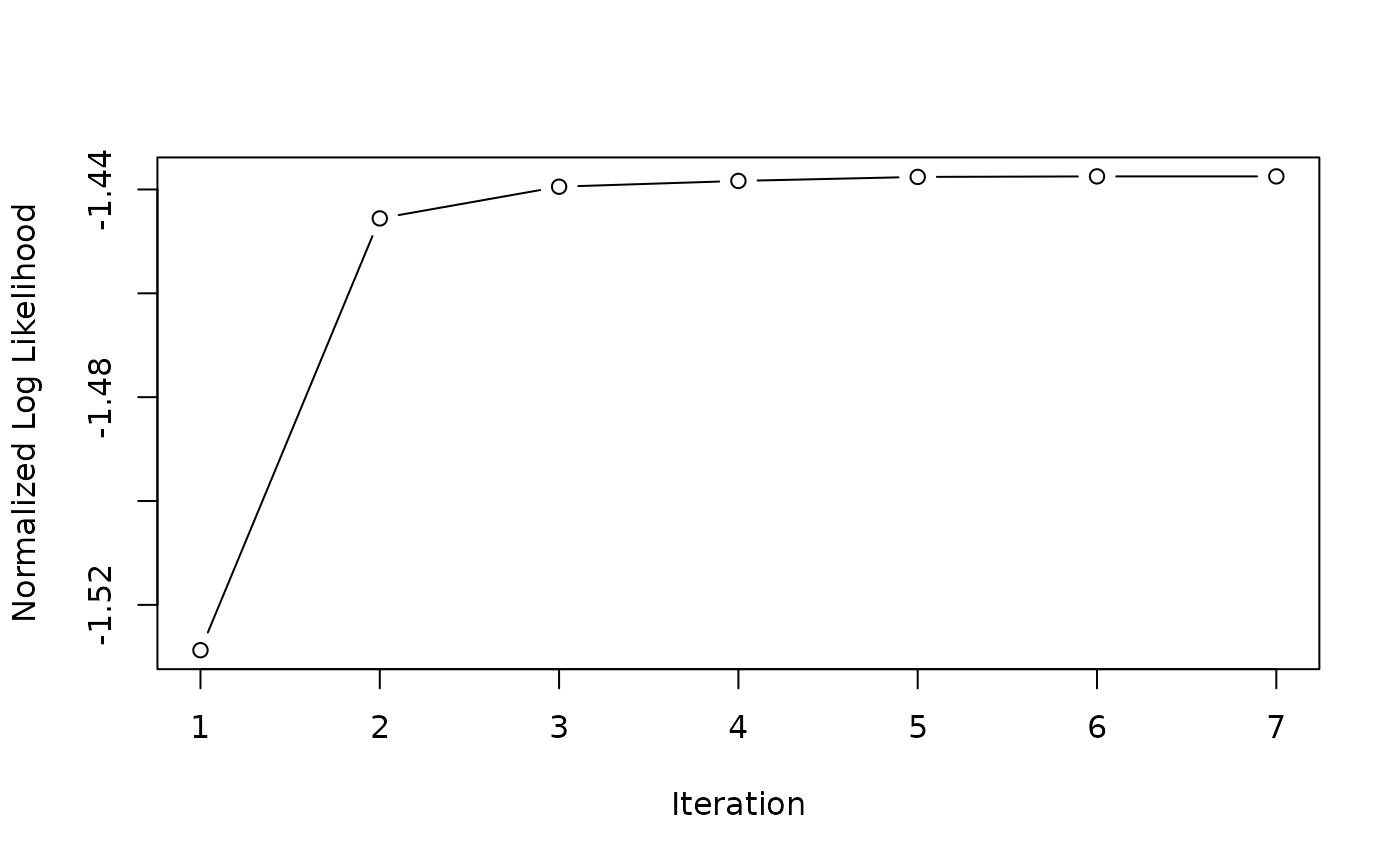
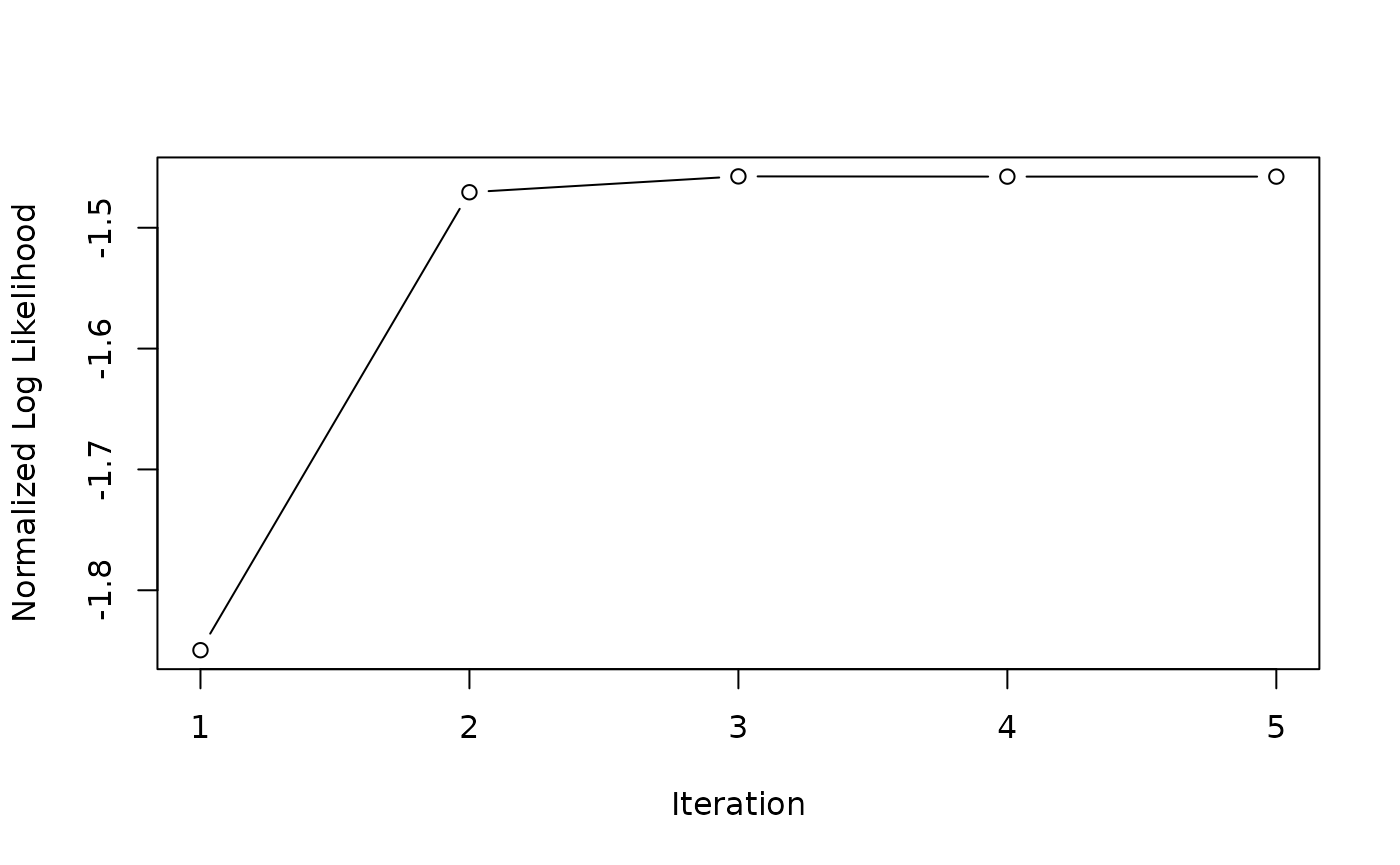
Deploying to gh-pages from @ rinseo/convNMF@880aeb25a3fc5c5e7031923199db9e350c5ee080 🚀

diff --git a/articles/getting-started.html b/articles/getting-started.html
@@ -78,8 +78,8 @@
 <code class="sourceCode R"><span><span class="fu"><a href="https://rdrr.io/r/base/Random.html" class="external-link">set.seed</a></span><span class="op">(</span><span class="fl">1</span><span class="op">)</span></span>
 <span><span class="va">init</span> <span class="op">&lt;-</span> <span class="fu"><a href="../reference/generate.html">generate</a></span><span class="op">(</span></span>
 <span>  num_channels<span class="op">=</span><span class="fl">5</span>, <span class="co"># number of channels</span></span>
-<span>  num_samples<span class="op">=</span><span class="fl">1500</span>, <span class="co"># number of samples</span></span>
-<span>  sample_freq<span class="op">=</span><span class="fl">3000</span>, <span class="co"># number of samples per unit time</span></span>
+<span>  num_samples<span class="op">=</span><span class="fl">1000</span>, <span class="co"># number of samples</span></span>
+<span>  sample_freq<span class="op">=</span><span class="fl">1000</span>, <span class="co"># number of samples per unit time</span></span>
 <span>  num_neurons<span class="op">=</span><span class="fl">2</span>, <span class="co"># number of neurons</span></span>
 <span>  warp<span class="op">=</span><span class="kw">function</span><span class="op">(</span><span class="va">x</span><span class="op">)</span> <span class="op">-</span><span class="fu"><a href="https://rdrr.io/r/base/Log.html" class="external-link">exp</a></span><span class="op">(</span><span class="op">-</span><span class="va">x</span><span class="op">)</span> <span class="op">+</span> <span class="fl">1</span>, <span class="co"># negative spike</span></span>
 <span>  len_wavelet<span class="op">=</span><span class="fl">10</span>, <span class="co"># length of spikes</span></span>
@@ -103,7 +103,7 @@
 <code class="sourceCode R"><span><span class="fu"><a href="https://rdrr.io/r/base/Random.html" class="external-link">set.seed</a></span><span class="op">(</span><span class="fl">1</span><span class="op">)</span></span>
 <span><span class="va">est</span> <span class="op">&lt;-</span> <span class="fu"><a href="../reference/convNMF.html">convNMF</a></span><span class="op">(</span></span>
 <span>  data<span class="op">=</span><span class="va">init</span><span class="op">@</span><span class="va">data</span><span class="op">@</span><span class="va">value</span>, <span class="co"># multi-channel time-series array (NxT)</span></span>
-<span>  sample_freq<span class="op">=</span><span class="fl">3000</span>, <span class="co"># number of samples per unit time</span></span>
+<span>  sample_freq<span class="op">=</span><span class="fl">1000</span>, <span class="co"># number of samples per unit time</span></span>
 <span>  num_neurons<span class="op">=</span><span class="fl">2</span>, <span class="co"># number of neurons</span></span>
 <span>  len_wavelet<span class="op">=</span><span class="fl">10</span>, <span class="co"># length of spikes</span></span>
 <span>  warp<span class="op">=</span><span class="kw">function</span><span class="op">(</span><span class="va">x</span><span class="op">)</span> <span class="op">-</span><span class="fu"><a href="https://rdrr.io/r/base/Log.html" class="external-link">exp</a></span><span class="op">(</span><span class="op">-</span><span class="va">x</span><span class="op">)</span> <span class="op">+</span> <span class="fl">1</span>, <span class="co"># negative spike</span></span>
@@ -117,10 +117,10 @@
 <span>  tol<span class="op">=</span><span class="fl">1e-04</span>, <span class="co"># tolerance level</span></span>
 <span>  weight_wavelets<span class="op">=</span><span class="cn">FALSE</span> <span class="co"># re-normalize wavelets for behavioral data</span></span>
 <span><span class="op">)</span></span>
-<span><span class="co">#&gt; Using (N x T) = (5 x 1500) data.</span></span>
+<span><span class="co">#&gt; Using (N x T) = (5 x 1000) data.</span></span>
 <span><span class="co">#&gt; Generating (K x N x D) = (2 x 5 x 10) wavelets.</span></span>
-<span><span class="co">#&gt; Initializing (K x T) = (2 x 1500) amplitudes.</span></span>
-<span><span class="co">#&gt; Iteration [6/50] Convergence detected!</span></span>
+<span><span class="co">#&gt; Initializing (K x T) = (2 x 1000) amplitudes.</span></span>
+<span><span class="co">#&gt; Iteration [4/50] Convergence detected!</span></span>
 <span><span class="fu"><a href="https://rdrr.io/r/graphics/plot.default.html" class="external-link">plot</a></span><span class="op">(</span><span class="va">est</span><span class="op">)</span></span></code></pre></div>
 <p><img src="getting-started_files/figure-html/unnamed-chunk-2-1.png" width="700"></p>
 <div class="sourceCode" id="cb5"><pre class="downlit sourceCode r">
@@ -136,21 +136,21 @@
 <p><img src="getting-started_files/figure-html/unnamed-chunk-3-1.png" width="700"></p>
 <div class="sourceCode" id="cb7"><pre class="downlit sourceCode r">
 <code class="sourceCode R"><span><span class="fu"><a href="https://rdrr.io/r/base/sprintf.html" class="external-link">sprintf</a></span><span class="op">(</span><span class="st">"logLik = %.2f"</span>,<span class="fu"><a href="https://rdrr.io/r/stats/logLik.html" class="external-link">logLik</a></span><span class="op">(</span><span class="va">est</span><span class="op">)</span><span class="op">)</span></span>
-<span><span class="co">#&gt; [1] "logLik = -10781.12"</span></span>
+<span><span class="co">#&gt; [1] "logLik = -7288.39"</span></span>
 <span><span class="fu"><a href="https://rdrr.io/r/base/sprintf.html" class="external-link">sprintf</a></span><span class="op">(</span><span class="st">"%% power explained = %.2f"</span>,<span class="fu"><a href="../reference/power_explained.html">power_explained</a></span><span class="op">(</span><span class="va">est</span><span class="op">)</span><span class="op">)</span></span>
-<span><span class="co">#&gt; [1] "% power explained = 0.15"</span></span>
+<span><span class="co">#&gt; [1] "% power explained = 0.42"</span></span>
 <span><span class="fu"><a href="https://rdrr.io/r/base/sprintf.html" class="external-link">sprintf</a></span><span class="op">(</span><span class="st">"Sequenciness = %.2f"</span>,<span class="fu"><a href="../reference/sequenciness.html">sequenciness</a></span><span class="op">(</span><span class="va">est</span><span class="op">)</span><span class="op">)</span></span>
-<span><span class="co">#&gt; [1] "Sequenciness = 1.00"</span></span>
+<span><span class="co">#&gt; [1] "Sequenciness = 0.97"</span></span>
 <span><span class="fu"><a href="../reference/confusion_matrix.html">confusion_matrix</a></span><span class="op">(</span><span class="va">init</span>, <span class="va">est</span><span class="op">)</span></span>
 <span><span class="co">#&gt;                      (Prediction)</span></span>
 <span><span class="co">#&gt;                        Positive   Negative</span></span>
-<span><span class="co">#&gt; (Reference) Positive        150          0</span></span>
-<span><span class="co">#&gt;             Negative         12       7338</span></span>
+<span><span class="co">#&gt; (Reference) Positive        410          0</span></span>
+<span><span class="co">#&gt;             Negative         36       4554</span></span>
 <span><span class="co">#&gt; ------------------------------------------</span></span>
-<span><span class="co">#&gt;             Accuracy: TP/(TP+FN+FP) = 0.93 </span></span>
-<span><span class="co">#&gt;               Recall: TP/(TP+FN)    = 0.93 </span></span>
+<span><span class="co">#&gt;             Accuracy: TP/(TP+FN+FP) = 0.92 </span></span>
+<span><span class="co">#&gt;               Recall: TP/(TP+FN)    = 0.92 </span></span>
 <span><span class="co">#&gt;            Precision: TP/(TP+FP)    = 1.00 </span></span>
-<span><span class="co">#&gt;            Miss rate: FN/(TP+FN)    = 0.07 </span></span>
+<span><span class="co">#&gt;            Miss rate: FN/(TP+FN)    = 0.08 </span></span>
 <span><span class="co">#&gt; False discovery rate: FP/(TP+FP)    = 0.00</span></span>
 <span><span class="co"># extract_spikes(est) # based on 95% spikes</span></span></code></pre></div>
 </div>
@@ -165,10 +165,10 @@
 <span>  <span class="fu"><a href="https://rdrr.io/r/base/print.html" class="external-link">print</a></span><span class="op">(</span><span class="fu"><a href="https://rdrr.io/r/base/sprintf.html" class="external-link">sprintf</a></span><span class="op">(</span><span class="st">"%d: %.2f"</span>,<span class="va">K</span>,<span class="va">diss_list</span><span class="op">[</span><span class="va">K</span><span class="op">]</span><span class="op">)</span><span class="op">)</span></span>
 <span><span class="op">}</span></span>
 <span><span class="co">#&gt; [1] "1: 0.00"</span></span>
-<span><span class="co">#&gt; [1] "2: 0.04"</span></span>
-<span><span class="co">#&gt; [1] "3: 0.31"</span></span>
-<span><span class="co">#&gt; [1] "4: 0.48"</span></span>
-<span><span class="co">#&gt; [1] "5: 0.58"</span></span>
+<span><span class="co">#&gt; [1] "2: 0.02"</span></span>
+<span><span class="co">#&gt; [1] "3: 0.22"</span></span>
+<span><span class="co">#&gt; [1] "4: 0.33"</span></span>
+<span><span class="co">#&gt; [1] "5: 0.43"</span></span>
 <span><span class="fu"><a href="https://rdrr.io/r/graphics/plot.default.html" class="external-link">plot</a></span><span class="op">(</span><span class="va">diss_list</span>, type<span class="op">=</span><span class="st">"b"</span>, xlab<span class="op">=</span><span class="st">"K"</span>, ylab<span class="op">=</span><span class="st">"Dissimiliarity"</span><span class="op">)</span></span></code></pre></div>
 <p><img src="getting-started_files/figure-html/unnamed-chunk-4-1.png" width="700"></p>
 </div>
